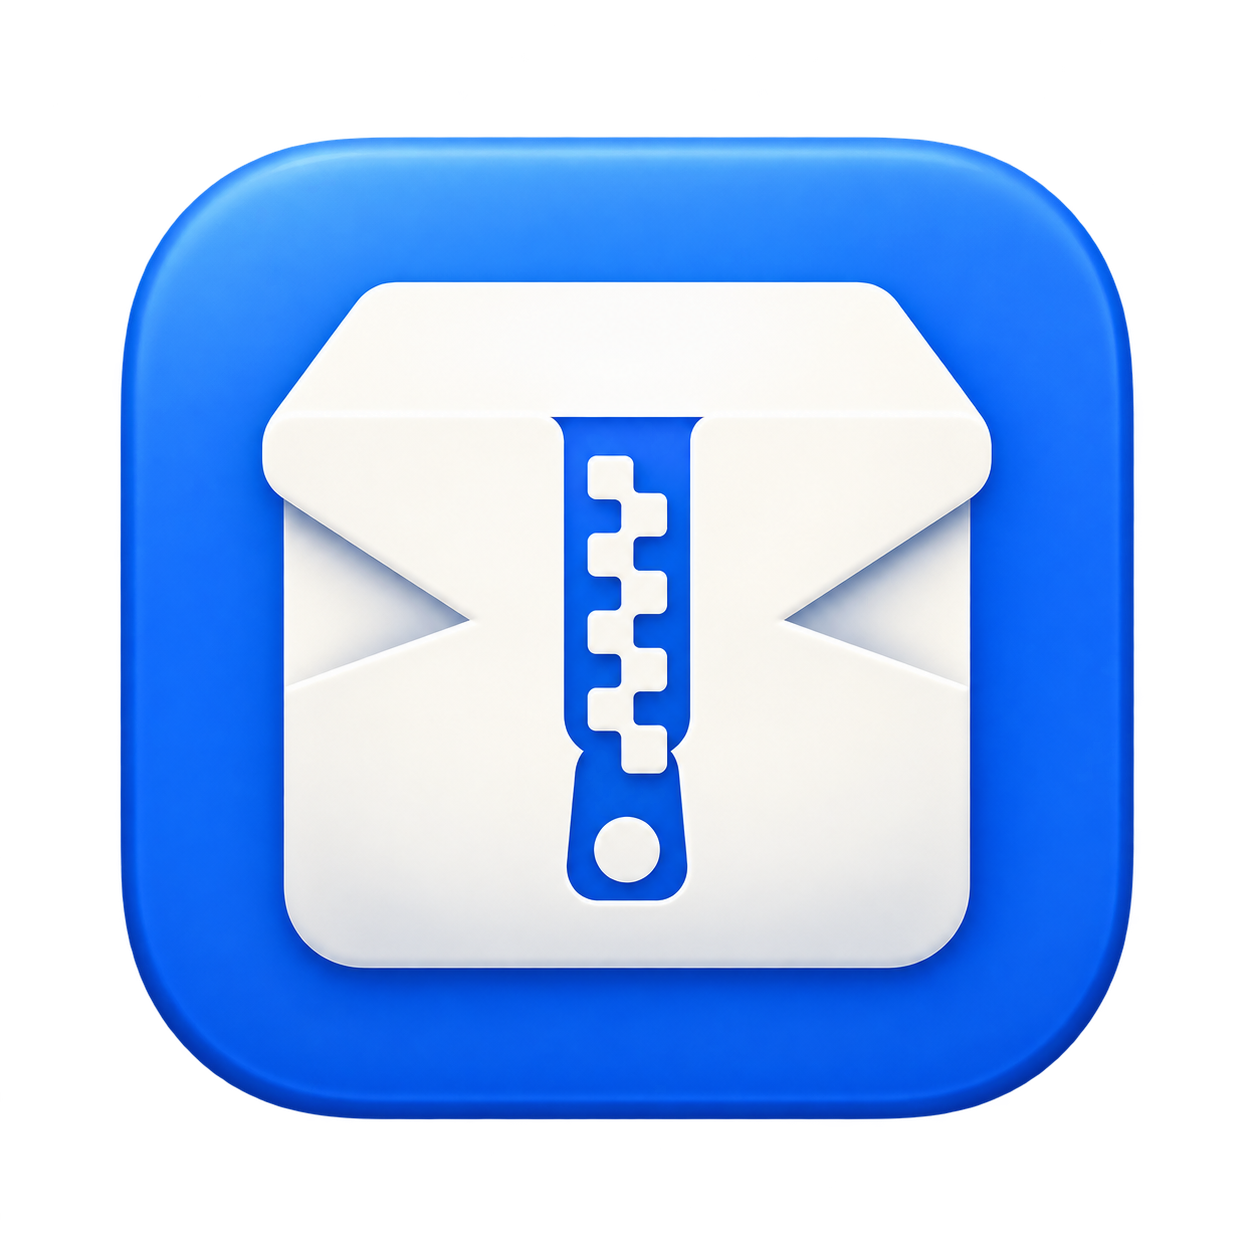
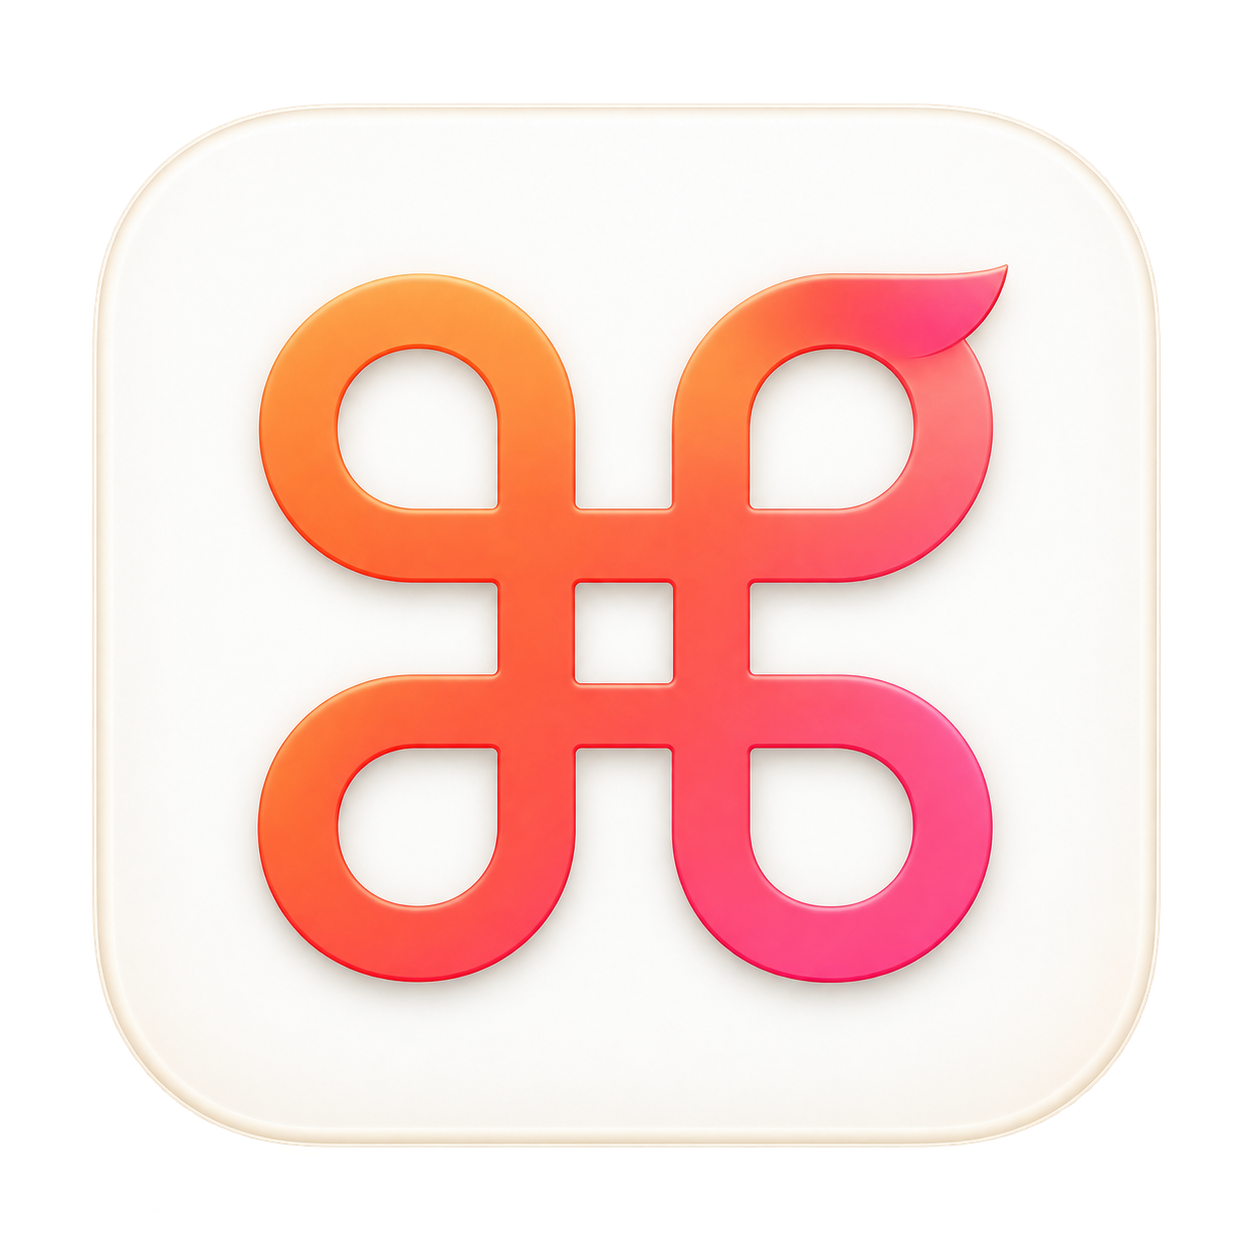
应用白底暖色渐变图标并整理设置与任务界面

diff --git a/App/FastBudoApp.swift b/App/FastBudoApp.swift
@@ -7,9 +7,9 @@ struct FastBudoApp: App {
         Window("FastBudo 设置", id: "settings") {
             PreferencesView()
         }
-        .defaultSize(width: 520, height: 380)
+        .defaultSize(width: 600, height: 520)
         .windowResizability(.contentSize)
-        MenuBarExtra("FastBudo", systemImage: "archivebox") {
+        MenuBarExtra("FastBudo", systemImage: "command") {
             StatusPopover(model: delegate.model)
         }
         .menuBarExtraStyle(.window)
@@ -20,29 +20,74 @@ struct PreferencesView: View {
     @AppStorage("excludeDSStore") private var excludeDSStore = true
     @AppStorage("preserveAttributes") private var preserveAttributes = false
     @AppStorage("defaultFormat") private var defaultFormat = "zip"
+    @State private var page = "压缩"
     var body: some View {
-        Form {
-            Section("默认压缩选项") {
-                Picker("格式", selection: $defaultFormat) {
-                    ForEach(ArchiveFormat.allCases, id: \.rawValue) { Text($0.rawValue.uppercased()).tag($0.rawValue) }
+        VStack(alignment: .leading, spacing: 0) {
+            HStack(spacing: 12) {
+                Image(nsImage: NSApplication.shared.applicationIconImage)
+                    .resizable().frame(width: 48, height: 48).accessibilityHidden(true)
+                VStack(alignment: .leading, spacing: 3) {
+                    Text("FastBudo").font(.title2.bold())
+                    Text("让日常操作更顺手").foregroundStyle(.secondary)
                 }
-                Text("快捷压缩始终使用 ZIP；更多压缩选项可单独调整。")
-                    .font(.caption).foregroundStyle(.secondary)
+                Spacer()
+            }.padding(24)
+            Picker("设置分类", selection: $page) {
+                Text("通用").tag("通用")
+                Text("压缩").tag("压缩")
+                Text("解压").tag("解压")
             }
-            Section("元数据") {
-                Toggle("过滤 .DS_Store", isOn: $excludeDSStore)
-                Toggle("保留 Mac 属性", isOn: $preserveAttributes)
-                Text("属性保留仅适用于无密码 ZIP。普通隐藏文件仍会保留，不修改源文件。")
-                    .font(.caption).foregroundStyle(.secondary)
+            .pickerStyle(.segmented).labelsHidden().padding(.horizontal, 24)
+            Form {
+                if page == "通用" {
+                    Section("使用方式") {
+                        LabeledContent("发起操作", value: "Finder 右键 → 服务")
+                        LabeledContent("查看任务", value: "菜单栏 ⌘ 图标")
+                        Text("快捷压缩直接生成 ZIP；更多压缩选项可选择格式、密码与保存位置。")
+                            .font(.callout).foregroundStyle(.secondary)
+                    }
+                    Section("本机运行") {
+                        Text("文件处理完全在本机完成。关闭任务窗口或收起浮窗，任务仍会继续。")
+                        Text("任务执行时请先取消，等待清理完成后退出应用。")
+                            .font(.caption).foregroundStyle(.secondary)
+                    }
+                } else if page == "压缩" {
+                    Section("默认选项") {
+                        Picker("压缩格式", selection: $defaultFormat) {
+                            ForEach(ArchiveFormat.allCases, id: \.rawValue) { Text($0.rawValue.uppercased()).tag($0.rawValue) }
+                        }
+                        LabeledContent("初始保存位置", value: "原文件所在文件夹")
+                        Text("快捷压缩始终使用 ZIP。本次压缩的调整不会改变默认设置。")
+                            .font(.caption).foregroundStyle(.secondary)
+                    }
+                    Section("元数据") {
+                        Toggle("过滤 .DS_Store", isOn: $excludeDSStore)
+                        Toggle("保留 Mac 属性", isOn: $preserveAttributes)
+                        Text("仅无密码 ZIP 支持保留属性。普通隐藏文件仍会保留，源文件不会被修改。")
+                            .font(.caption).foregroundStyle(.secondary)
+                    }
+                } else {
+                    Section("输出规则") {
+                        LabeledContent("保存位置", value: "压缩包所在文件夹")
+                        LabeledContent("解压内容", value: "放入独立文件夹")
+                        LabeledContent("遇到重名", value: "自动编号，保留已有文件")
+                    }
+                    Section("安全处理") {
+                        Text("大体积或无法预估的归档会在解压前请求确认。")
+                        Text("拒绝不安全路径、冲突文件名、链接及特殊文件。需要密码时，在任务窗口输入后重试。")
+                            .font(.caption).foregroundStyle(.secondary)
+                    }
+                }
+            }.formStyle(.grouped)
+            HStack {
+                Label("设置自动保存", systemImage: "checkmark.circle")
+                Spacer()
+                Text("FastBudo · 本地工具")
             }
-            Section {
-                Label("从 Finder 右键服务发起压缩", systemImage: "cursorarrow")
-                Text("点击菜单栏归档图标查看任务。密码在每次压缩时输入，设置自动保存。")
-                    .font(.caption).foregroundStyle(.secondary)
-            }
+            .font(.caption).foregroundStyle(.secondary)
+            .padding(.horizontal, 24).padding(.bottom, 18)
         }
-        .formStyle(.grouped)
-        .frame(width: 520, height: 380)
+        .frame(width: 600, height: 520)
     }
 }
 
@@ -88,7 +133,7 @@ struct StatusPopover: View {
     @Environment(\.openWindow) private var openWindow
     var body: some View {
         VStack(alignment: .leading, spacing: 16) {
-            Label("FastBudo", systemImage: "archivebox").font(.headline)
+            Label("FastBudo", systemImage: "command").font(.headline)
             TaskStatusView(model: model)
             Divider()
             HStack {
@@ -106,7 +151,10 @@ struct ArchiveView: View {
     @Bindable var model: ArchiveModel
     var body: some View {
         VStack(alignment: .leading, spacing: 16) {
-            Text("压缩 \(model.files.count) 个项目").font(.title2.bold())
+            Label("压缩 \(model.files.count) 个项目", systemImage: "archivebox")
+                .font(.title2.bold())
+            Text("选择格式与保存位置，然后开始压缩。")
+                .foregroundStyle(.secondary)
             Form {
                 Picker("格式", selection: $model.format) {
                     ForEach(ArchiveFormat.allCases, id: \.self) { Text($0.rawValue.uppercased()).tag($0) }
@@ -120,7 +168,7 @@ struct ArchiveView: View {
                     }
                 }
                 HStack {
-                    Text(model.outputDirectory.path).lineLimit(1).truncationMode(.middle)
+                    Text(model.outputDirectory.path).lineLimit(1).truncationMode(.middle).help(model.outputDirectory.path)
                     Spacer()
                     Button("保存到…", action: model.chooseOutput)
                 }
@@ -128,7 +176,10 @@ struct ArchiveView: View {
             .onChange(of: model.format) {
                 if model.format == .tarGz { model.password = "" }
             }
-            TaskStatusView(model: model)
+            if model.busy || model.failed != nil || !model.results.isEmpty {
+                Divider()
+                TaskStatusView(model: model)
+            }
             HStack {
                 Text("仅应用于本次压缩").font(.caption).foregroundStyle(.secondary)
                 Spacer()
